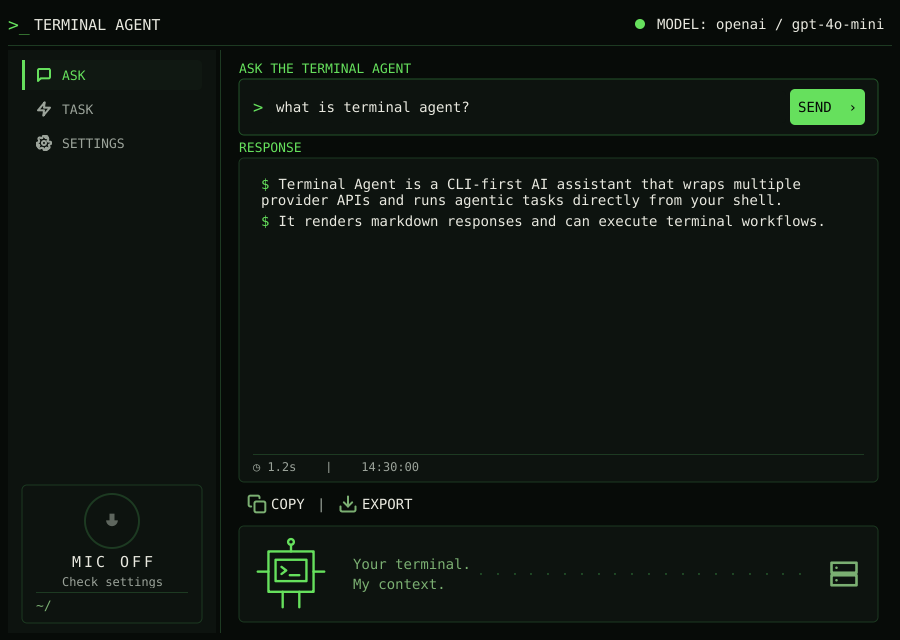
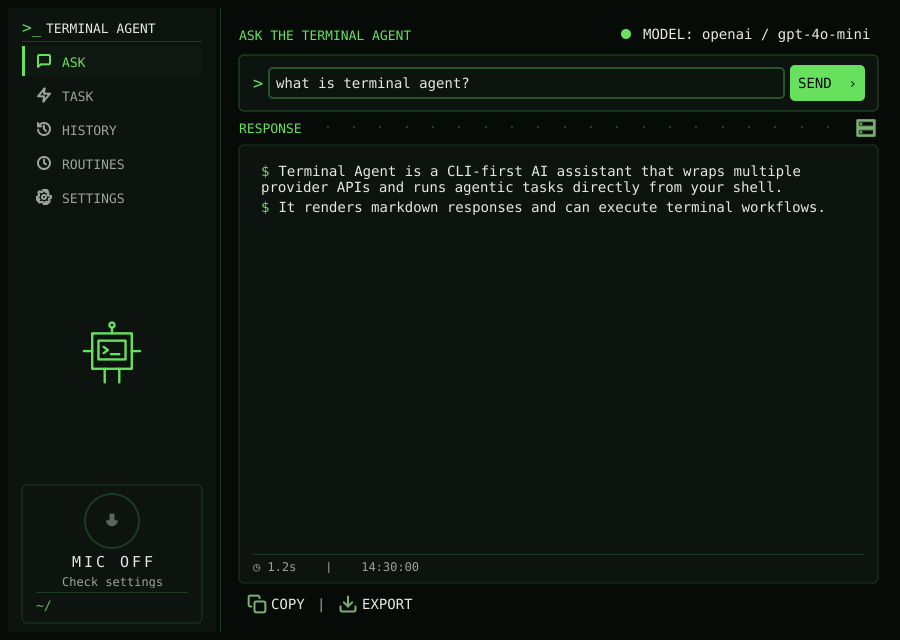
docs: routine GUI screenshots and updated guides
Capture the new Routine views and refresh the existing GUI screenshots so they
show the ROUTINE nav item.

- TestCaptureScreenshots now seeds representative routines (redirected to a temp
  store, never the user's real data) and captures gui-routine.png (list),
  gui-routine-detail.png (prompt/settings/logs/actions), and gui-routine-form.png
  (create/edit form); gui-ask/task/settings.png are regenerated with the new nav.
- developers.md: new screenshots in the catalog + table, and the capture notes.
- gui.md: the Routine list screenshot in the Routines section.

diff --git a/internal/gui/screenshot_test.go b/internal/gui/screenshot_test.go
@@ -1,6 +1,7 @@
 package gui
 
 import (
+	"context"
 	"image/png"
 	"os"
 	"path/filepath"
@@ -10,6 +11,8 @@ import (
 	"fyne.io/fyne/v2"
 	"fyne.io/fyne/v2/test"
 	"fyne.io/fyne/v2/theme"
+
+	"github.com/laszukdawid/terminal-agent/internal/routines"
 )
 
 type screenshotApp struct {
@@ -66,6 +69,15 @@ func TestCaptureScreenshots(t *testing.T) {
 			variant:  screenshotThemeVariant(),
 		},
 	}
+
+	// Redirect routine storage to a temp dir (away from the user's real routines)
+	// and seed representative entries so the Routine views render deterministic,
+	// illustrative content. This must run before NewApp, which binds the routine
+	// service to the (now redirected) store path.
+	routineDir := t.TempDir()
+	t.Setenv(routines.DefinitionsFileEnv, filepath.Join(routineDir, "routines.json"))
+	t.Setenv(routines.DataDirEnv, filepath.Join(routineDir, "data"))
+	seedScreenshotRoutines(t)
 
 	g := NewApp(&recordingService{}, voiceGUIConfig{}, AppOptions{
 		AppID:   "terminal-agent-screenshot",
@@ -127,4 +139,51 @@ func TestCaptureScreenshots(t *testing.T) {
 	// Settings dialog, shown as a modal overlay over the main window.
 	g.openSettings()
 	capture("gui-settings.png")
+	if g.popup.settings != nil {
+		g.popup.settings.dialog.Hide()
+	}
+
+	// Routine list: scheduled routines with varied status (active/inactive/error).
+	g.setMode(guiModeRoutine)
+	capture("gui-routine.png")
+
+	// Routine detail: full prompt, resolved settings, run logs, and actions.
+	if view, err := g.routineService.Get(context.Background(), "daily-standup"); err == nil {
+		g.showRoutineDetail(view)
+		capture("gui-routine-detail.png")
+		g.popup.dismissRoutineDetail()
+	}
+
+	// Create-routine form (also the edit form), showing what is configurable.
+	g.showRoutineForm(nil)
+	capture("gui-routine-form.png")
+}
+
+// seedScreenshotRoutines writes representative routines and run state into the
+// redirected routine stores so the Routine screenshots have illustrative content.
+func seedScreenshotRoutines(t *testing.T) {
+	t.Helper()
+	store := routines.NewStore(routines.DefinitionsPath())
+	state := routines.NewStateStore(routines.StatePath())
+	must := func(err error) {
+		if err != nil {
+			t.Fatalf("seed routines: %v", err)
+		}
+	}
+	const model = "gpt-4o-mini"
+	lastRun := time.Date(2026, 6, 7, 9, 0, 0, 0, time.UTC)
+	nextDaily := time.Date(2026, 6, 8, 9, 0, 0, 0, time.UTC)
+
+	must(store.Upsert(routines.Routine{ID: "daily-standup", Name: "Daily standup", Prompt: "Summarize my git commits from yesterday and list the highlights.", Schedule: "0 9 * * 1-5", Model: model, Enabled: true}))
+	must(store.Upsert(routines.Routine{ID: "nightly-deps", Name: "Nightly dependency audit", Prompt: "Check for outdated Go modules and known security advisories; summarize findings.", Schedule: "0 2 * * *", Model: model, Enabled: true}))
+	must(store.Upsert(routines.Routine{ID: "weekly-digest", Name: "Weekly digest", Prompt: "Draft a weekly project digest from recent repository activity.", Schedule: "0 17 * * 5", Enabled: false}))
+
+	must(state.Record("daily-standup", routines.RunRecord{LastRunAt: lastRun, LastStatus: routines.OutcomeSuccess, LastDuration: "42s", NextRunAt: nextDaily}))
+	must(state.Record("nightly-deps", routines.RunRecord{LastRunAt: lastRun.Add(-7 * time.Hour), LastStatus: routines.OutcomeFailed, LastError: "provider error: rate limited", NextRunAt: lastRun.Add(17 * time.Hour)}))
+
+	// A result summary so the detail view's run-log list has an entry.
+	logDir := routines.LogDir("daily-standup")
+	must(os.MkdirAll(logDir, 0o755))
+	must(os.WriteFile(filepath.Join(logDir, "2026-06-07T09-00-00_success_a1b2c3.md"),
+		[]byte("# Routine: Daily standup\n\n- Status: success\n- Duration: 42s\n\n## Output\n\nPosted 4 commit highlights to the channel.\n"), 0o644))
 }

diff --git a/docs/developers.md b/docs/developers.md
@@ -242,6 +242,18 @@ visual checks of GUI changes.
 
 ![Terminal Agent GUI settings dialog](assets/screenshots/gui-settings.png)
 
+**Routine** — the list of scheduled routines with their status, schedule, and next run:
+
+![Terminal Agent GUI Routine list](assets/screenshots/gui-routine.png)
+
+**Routine detail** — a routine's prompt, settings, run logs, and actions:
+
+![Terminal Agent GUI Routine detail](assets/screenshots/gui-routine-detail.png)
+
+**Routine form** — creating or editing a routine:
+
+![Terminal Agent GUI Routine form](assets/screenshots/gui-routine-form.png)
+
 ### Regenerating the screenshots
 
 ```sh
@@ -259,6 +271,9 @@ The committed files are:
 | `gui-ask.png` | Ask mode with a rendered markdown response |
 | `gui-task.png` | Task mode transcript (tool-call line + final answer) |
 | `gui-settings.png` | Settings dialog (provider/model) |
+| `gui-routine.png` | Routine list (status, schedule, model, last/next run) |
+| `gui-routine-detail.png` | Routine detail (prompt, settings, run logs, actions) |
+| `gui-routine-form.png` | Routine create/edit form |
 
 ### How it works
 
@@ -267,8 +282,10 @@ The task runs a single env-gated test, `TestCaptureScreenshots` in
 
 1. Builds the real `gui.App` with a Fyne test app (`test.NewApp()`), so the
    actual widgets, layout, and brand theme are exercised.
-2. Drives `App`/`state` into each scenario (mode, input text, output, or the
-   Settings dialog) and calls `render()`.
+2. Drives `App`/`state` into each scenario (mode, input text, output, the Settings
+   dialog, or the Routine list/detail/form) and calls `render()`. For the Routine
+   views it redirects the routine stores to a temp dir and seeds representative
+   routines so the captures are deterministic and never touch real user data.
 3. Captures the window with `win.Canvas().Capture()` (Fyne's software renderer)
    and writes the image with `png.Encode`.
 

diff --git a/docs/gui.md b/docs/gui.md
@@ -136,7 +136,10 @@ of what you have run.
 
 The **Routine** tab manages [routines](commands/routine.md): scheduled, unattended
 agent runs. Each card shows a status dot (active / inactive / error), the schedule,
-model, last and next run times, and a preview of the prompt. Click a card to open a
+model, last and next run times, and a preview of the prompt.
+
+![Terminal Agent popup GUI listing scheduled routines](assets/screenshots/gui-routine.png)
+ Click a card to open a
 detail view with the full prompt, resolved settings, and the list of past run logs
 (open any to read its transcript or summary); from there you can **Run now**,
 **Enable/Disable**, **Edit**, or **Delete** the routine. Use **NEW** to create one.